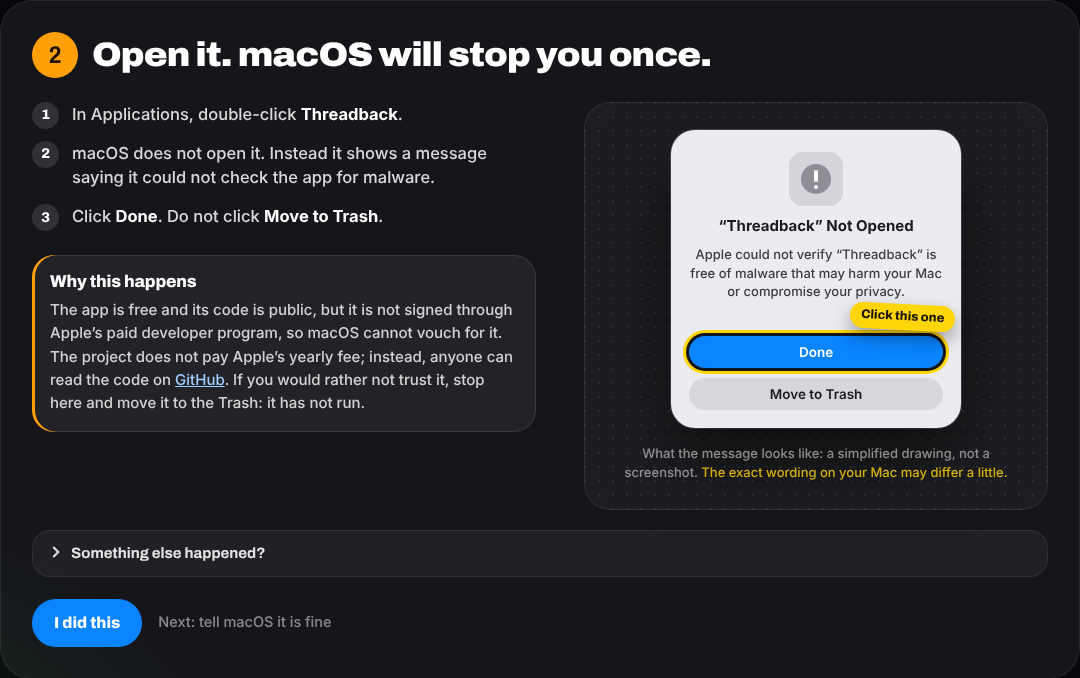
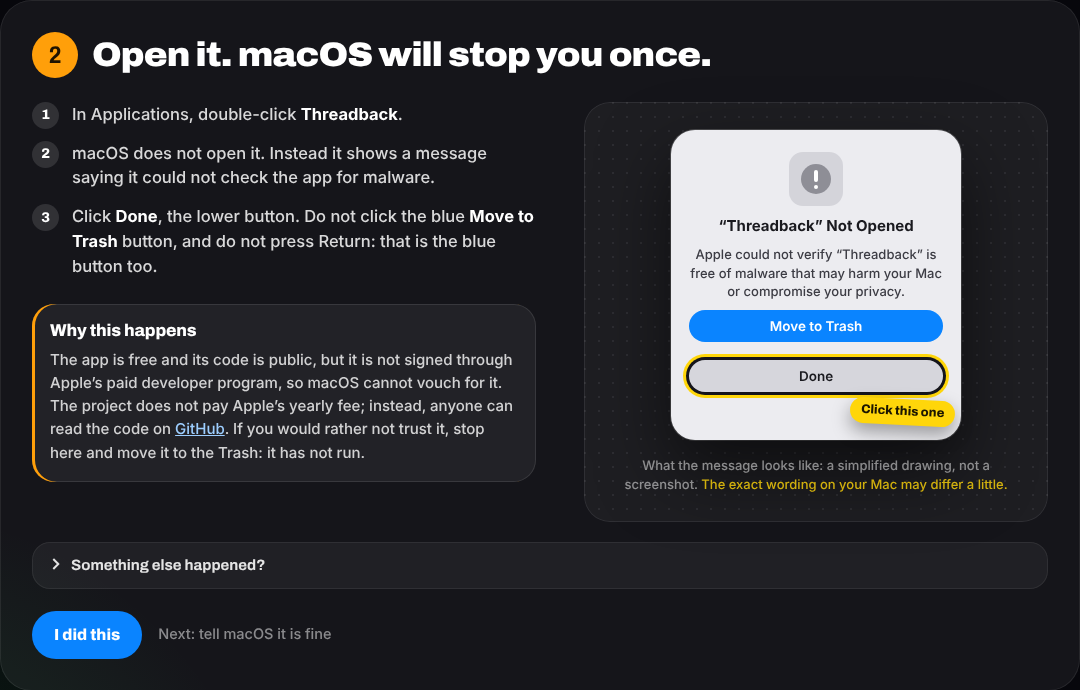
Mac page: the sketch matches the real message; test steps follow the disk image
On a real macOS 26 runner the highlighted button of the first-open message
is Move to Trash and Done sits below it. The page's drawing had them the
other way round; it now matches, and the step says not to press Return.
docs/MAC-APP.md describes the disk-image download and the app's status
window.

Claude-Session: https://claude.ai/code/session_01HsT3WJgxawzje31yUV686t

diff --git a/web/mac/index.html b/web/mac/index.html
@@ -165,7 +165,7 @@
             <ol class="mg-list">
               <li>In Applications, double-click <b data-brand>the app</b>.</li>
               <li>macOS does not open it. Instead it shows a message saying it could not check the app for malware.</li>
-              <li>Click <b data-macos="done">Done</b>. Do not click <b data-macos="moveToTrash">Move to Trash</b>.</li>
+              <li>Click <b data-macos="done">Done</b>, the lower button. Do not click the blue <b data-macos="moveToTrash">Move to Trash</b> button, and do not press Return: that is the blue button too.</li>
             </ol>
           </div>
           <figure class="mg-sketch" aria-labelledby="cap-dialog">
@@ -173,8 +173,8 @@
               <span class="mg-dialog__icon" aria-hidden="true"><i></i></span>
               <p class="mg-dialog__title" data-macos="notOpenedTitle">“the app” Not Opened</p>
               <p class="mg-dialog__body" data-macos="notOpenedBody">Apple could not verify “the app” is free of malware that may harm your Mac or compromise your privacy.</p>
+              <span class="mg-dialog__btn mg-dialog__btn--default" data-macos="moveToTrash">Move to Trash</span>
               <span class="mg-dialog__btn mg-target"><span data-macos="done">Done</span><span class="mg-callout">Click this one</span></span>
-              <span class="mg-dialog__btn" data-macos="moveToTrash">Move to Trash</span>
             </div>
             <figcaption id="cap-dialog"><span>What the message looks like: a simplified drawing, not a screenshot.</span> <span class="mg-approx" data-approx>The exact wording on your Mac may differ a little.</span></figcaption>
           </figure>

diff --git a/web/mac/mac.css b/web/mac/mac.css
@@ -702,8 +702,10 @@ html.mg-all .mg-step .mg-step__body { animation: none; }
   font: 600 13.5px/1.2 var(--font-text);
 }
 
-.mg-dialog__btn.mg-target { margin-top: 26px; background: var(--blue); color: #fff; }
-.mg-dialog__btn .mg-callout { top: -32px; }
+/* As on a real Mac: the highlighted button is the one NOT to press; Done sits below it. */
+.mg-dialog__btn--default { background: var(--blue); color: #fff; }
+.mg-dialog__btn.mg-target { margin-top: 8px; margin-bottom: 30px; }
+.mg-dialog__btn .mg-callout { top: auto; bottom: -32px; }
 
 /* Privacy & Security in System Settings: a window, drawn. */
 .mg-win {

diff --git a/docs/MAC-APP.md b/docs/MAC-APP.md
@@ -73,15 +73,17 @@ Clicks only, no Terminal. You need macOS 14 or later, signed in to Messages.
 
 **Get the app (once).**
 1. On the Mac, signed in to GitHub, open **Actions → Mac app → the latest green run**,
-   scroll to **Artifacts** and download **Threadback-for-Mac**.
-2. Double-click the download, and the zip inside it, until you see **Threadback**. Drag it
-   to **Applications**.
-3. Double-click Threadback. macOS says it could not verify the app (it is not signed through
-   Apple's paid program); click **Done**.
-4. Open **System Settings → Privacy & Security**, scroll to the line about Threadback, click
-   **Open Anyway** and confirm with your password or Touch ID.
-5. A window opens and a speech-bubble icon appears in the menu bar (there is no Dock icon).
-   If an orange box says it is running from the download, quit and drag it to Applications.
+   scroll to **Artifacts** and click **Threadback-for-Mac.dmg**.
+2. Double-click it in Downloads. A window opens showing Threadback, an Applications
+   shortcut and three steps. Drag **Threadback** onto **Applications**.
+3. Open Threadback from Applications. macOS shows "“Threadback” Not Opened". Click
+   **Done**, the lower button. Do not click the blue **Move to Trash**, and do not press
+   Return.
+4. Open **System Settings → Privacy & Security**, scroll down to Security, click
+   **Open Anyway** and confirm with your password or Touch ID. (This last step is the one
+   part nobody has photographed yet; tell us if it reads differently on your Mac.)
+5. Threadback opens with a normal Dock icon while its window is open. Every screen has a
+   **Quit** button, and closing the window before a chat is on quits the app.
 
 **A. Can it read your messages after one folder pick?** Sends nothing.
 1. In System Settings → Privacy & Security → Full Disk Access, check Threadback is not
@@ -91,8 +93,8 @@ Clicks only, no Terminal. You need macOS 14 or later, signed in to Messages.
 3. Pass: green "Connected: N group chats, M messages." with your real numbers. If it shows
    a red error instead, that is the answer too; **Use Full Disk Access instead** is the
    fallback.
-4. Quit Threadback from its menu-bar icon, restart the Mac, open it again. Pass: the menu
-   says "Messages: Connected".
+4. Quit Threadback, restart the Mac, open it again from Applications. Pass: it still says
+   it is connected.
 
 **B. Does a reply arrive?** This sends real messages from your Apple ID into the chat you
 choose. This build sends the image and the text, and no link, because the story site is not
@@ -100,11 +102,12 @@ live yet.
 1. Pick a small group chat whose members will not mind. Click **Continue**, **Turn on** next
    to that chat, then **Allow** when macOS asks whether Threadback may control Messages.
 2. From your phone, type `/wrapped` as the whole message in that chat.
-3. Pass: within about ten seconds the image and the text arrive, and the menu-bar menu
-   shows "Image: delivered" and "Text: delivered".
+3. Pass: within about ten seconds the image and the text arrive. Open Threadback again
+   from Applications: its window shows the last `/wrapped` with "Image: delivered" and
+   "Text: delivered". The same window has **Turn off** and **Quit Threadback**.
 
-**Then send back the result.** Menu-bar icon → **Copy test report**, and paste it to whoever
-is building this. The report has no names, chat names, numbers or message text: only your
+**Then send back the result.** In that window (or on the last setup screen) click
+**Copy test report**, and paste it to whoever is building this. The report has no names, chat names, numbers or message text: only your
 macOS version, whether each step worked, and error numbers.
 
 If A passes, the few-click setup is real. If B passes on your macOS version, so is the
